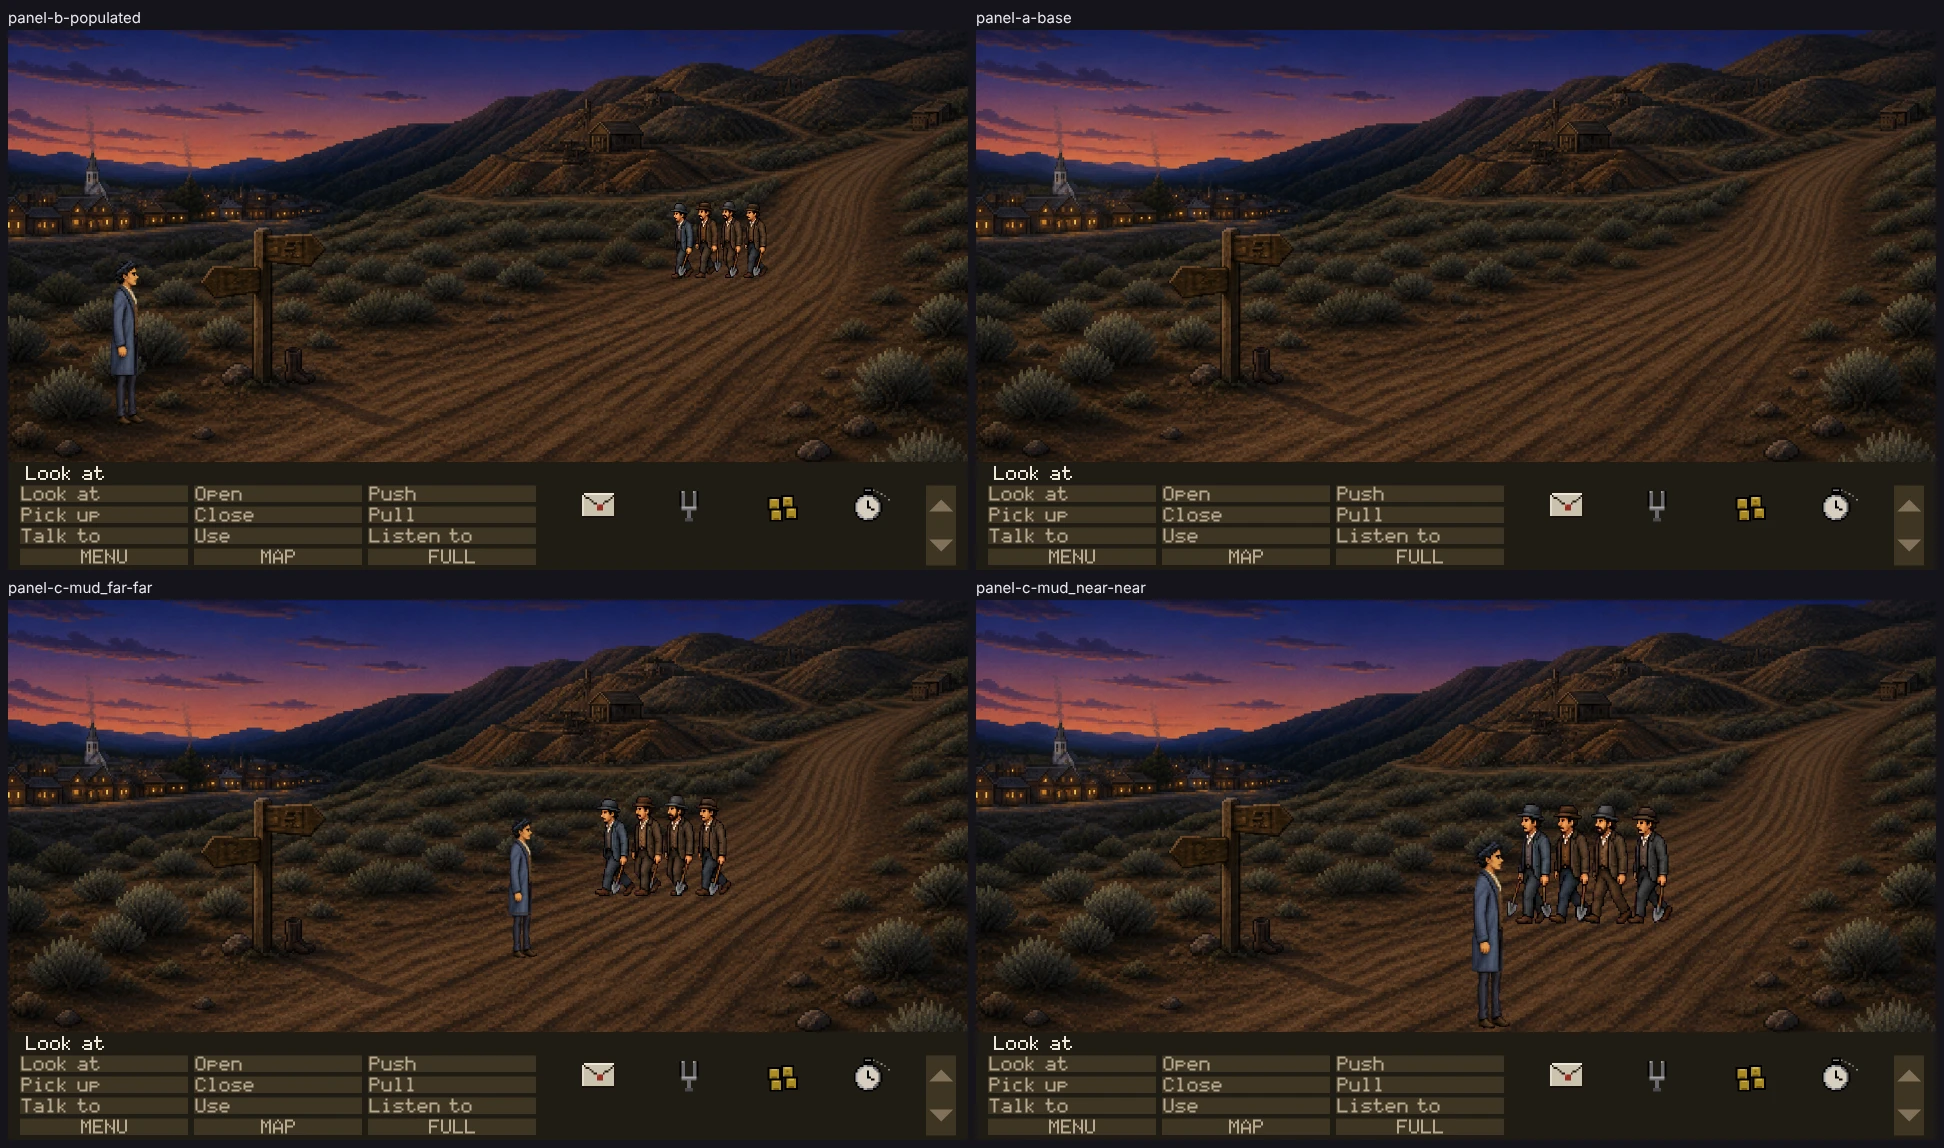
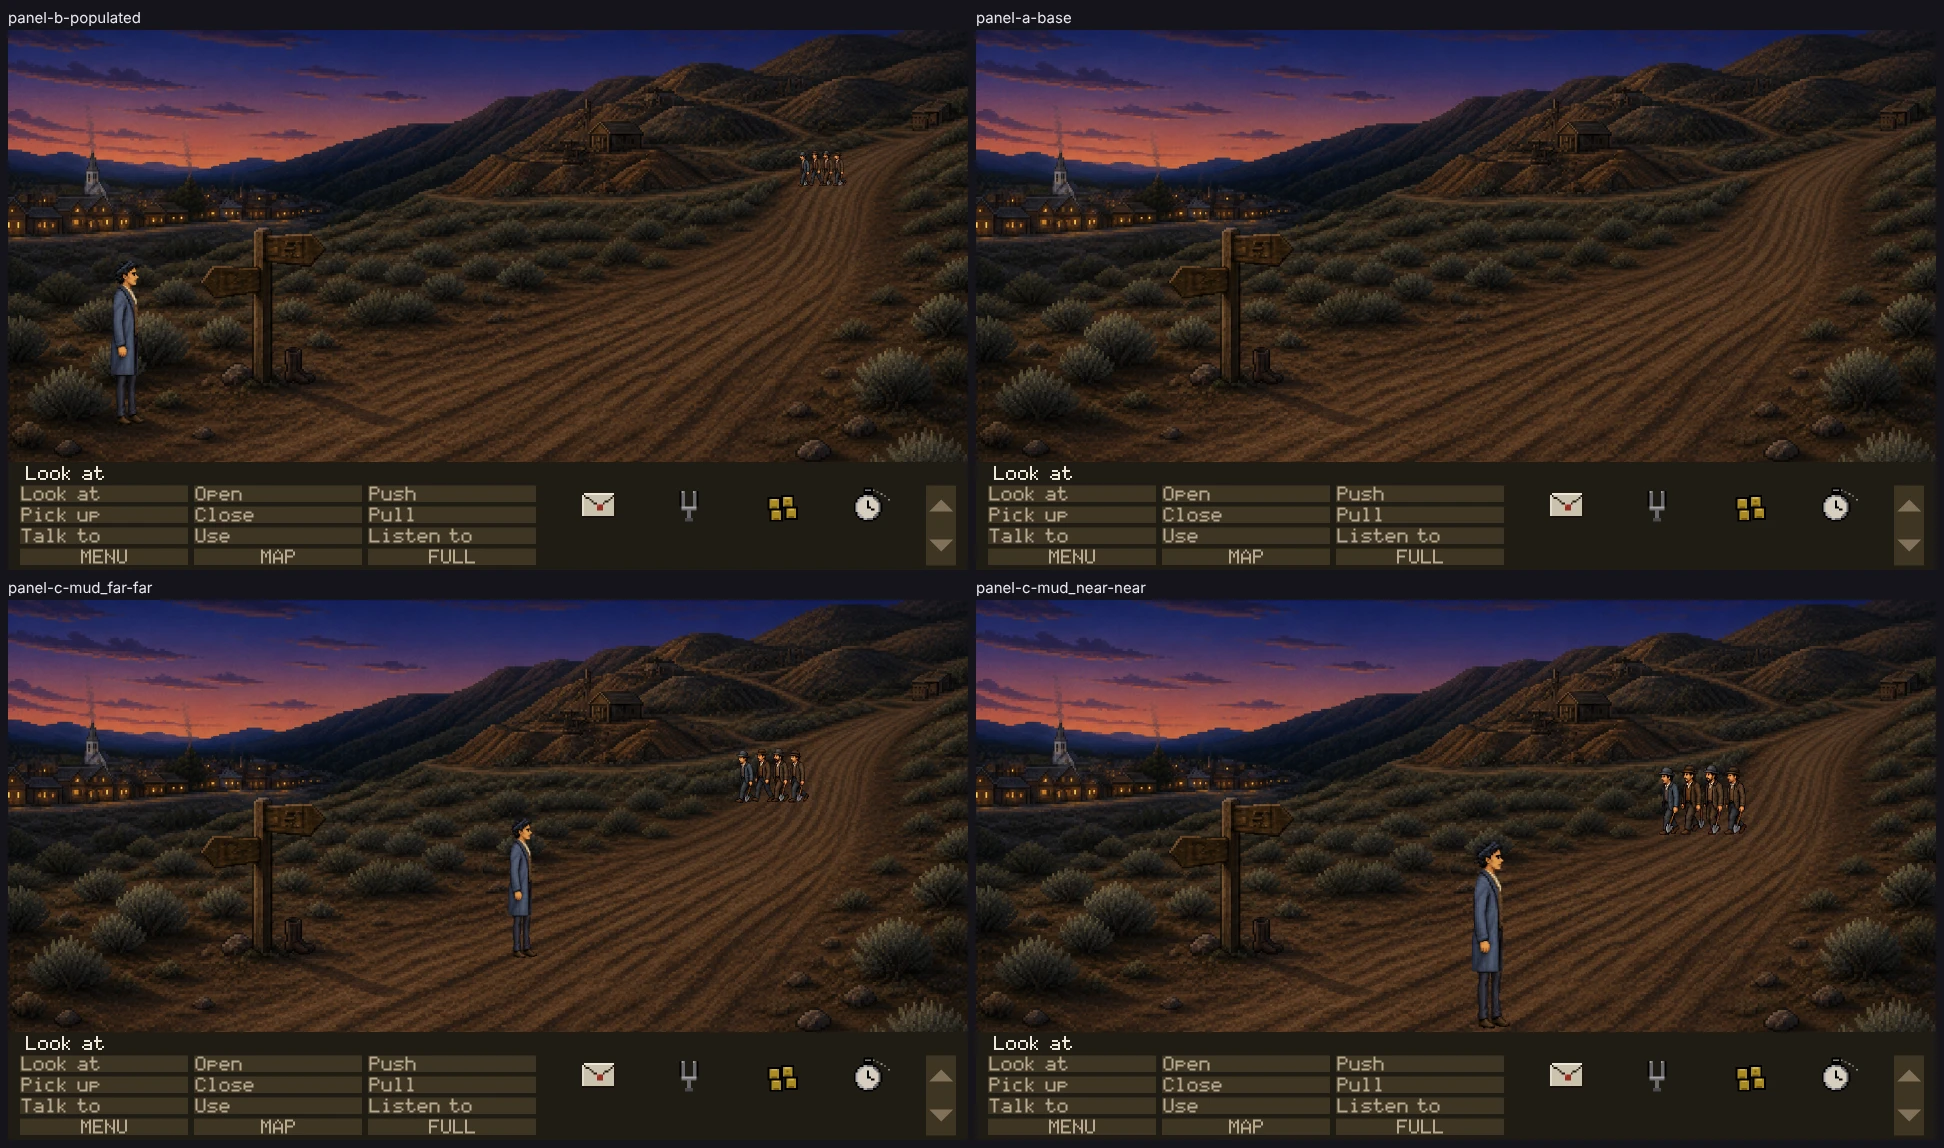
Room 22: four-panel proof on a clean tree
Claude-Session: https://claude.ai/code/session_01FXbCupzwLJAEr7fqqWYP8A

diff --git a/renders/proofs/claims-road/index.html b/renders/proofs/claims-road/index.html
@@ -17,7 +17,7 @@
 </style>
 <h1>claims_road — four-panel live-runtime proof</h1>
 <p class="lede">Every frame below is the full play area as the renderer drew it, in the running
-game, at <code>d699f86d</code> on <code>ccr-347d40c6-71r9f9</code>.
+game, at <code>0970dac7</code> on <code>ccr-347d40c6-71r9f9</code>.
 No crop, isolated sprite or source image appears here: those are for diagnosing what a full
 frame has already shown.</p>
 <p class="lede"><b>These panels establish technical admissibility only.</b> Nothing here says the
@@ -57,15 +57,15 @@ art is good, in style, funny or approved. Only Tyler sets <code>visual_accepted<
     <img src="raw-captures-ignored/panel-c-mud_far-far.png" alt="">
     <figcaption><b>PANEL C &mdash; mud_far far, authored y716</b>
       <span>expected 279px &middot; runtime 279px &middot;
-        silhouette 300px, bottom y716</span>
-      <span>art/actors/thad-idlebreak-right/idle-break-03.png</span>
+        silhouette 280px, bottom y716</span>
+      <span>art/actors/thad-idle-right/idle-03.png</span>
     </figcaption>
   </figure>
   <figure>
     <img src="raw-captures-ignored/panel-c-mud_near-near.png" alt="">
     <figcaption><b>PANEL C &mdash; mud_near near, authored y857</b>
       <span>expected 374px &middot; runtime 374px &middot;
-        silhouette 394px, bottom y856</span>
-      <span>art/actors/thad-idlebreak-right/idle-break-07.png</span>
+        silhouette 374px, bottom y856</span>
+      <span>art/actors/thad-idle-right/idle-01.png</span>
     </figcaption>
   </figure>
